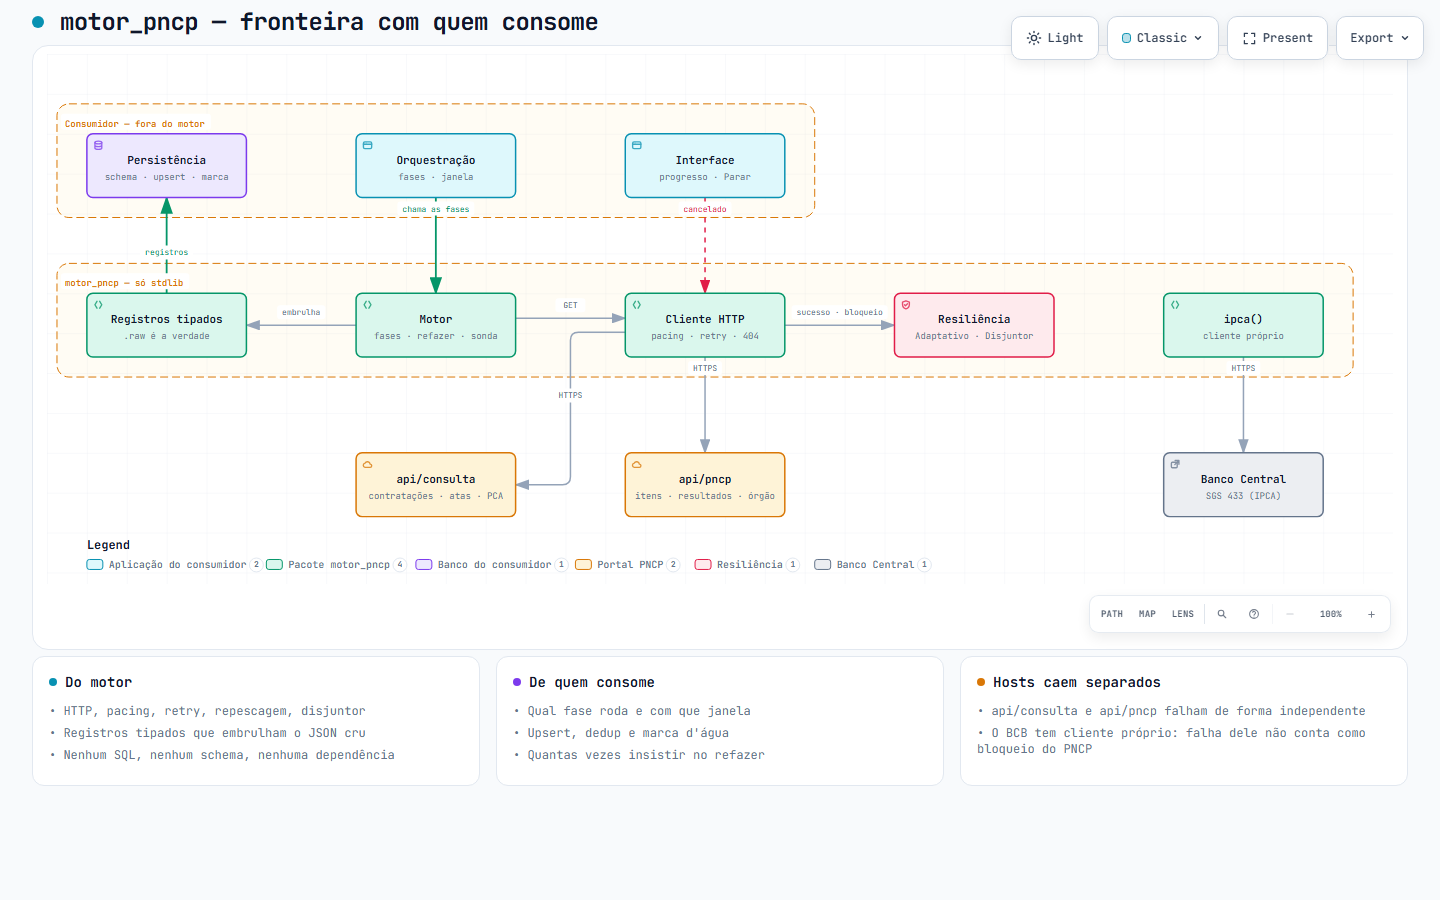
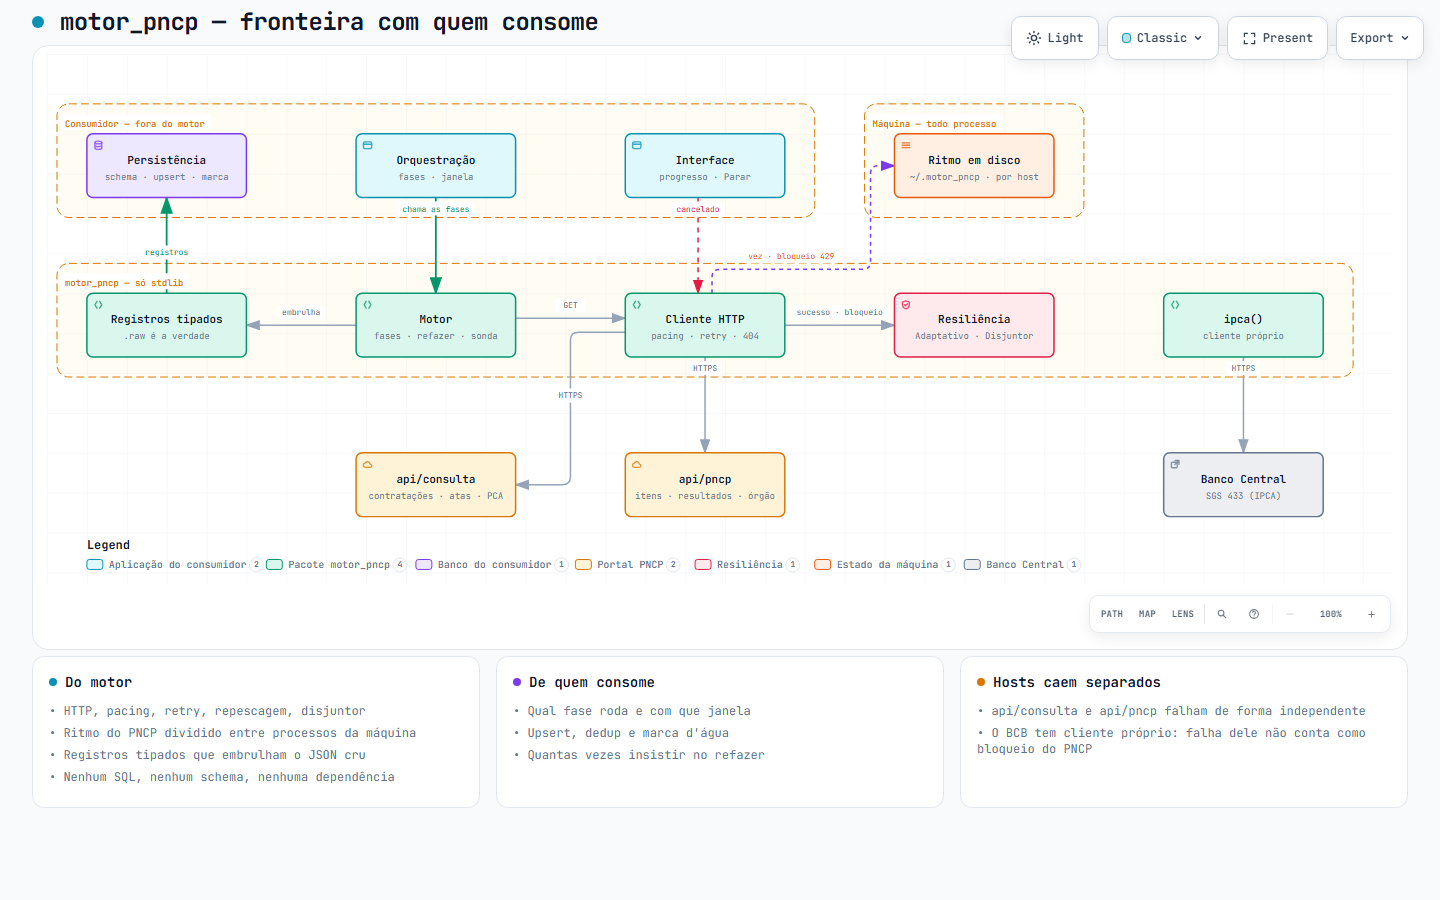
docs: ritmo em disco no diagrama de fronteira; arquivos de ritmo não são contrato
RELEASING declara nome, conteúdo e frequência de escrita dos arquivos em
~/.motor_pncp/ como detalhe interno (contrato: Config.pasta_ritmo e
MOTOR_PNCP_RITMO). Diagrama de fronteira mostra o ritmo compartilhado
entre processos da máquina.

diff --git a/docs/diagramas/fronteira.html b/docs/diagramas/fronteira.html
@@ -5160,16 +5160,19 @@ OTHER DEALINGS IN THE FONT SOFTWARE.
 
         <rect data-graph-role="structural-frame" data-composition-frame-kind="region" data-composition-frame-id="1" data-composition-frame-label="motor_pncp — só stdlib" x="10" y="210" width="1300" height="114" rx="12" class="c-region" stroke-width="1"/>
 
+        <rect data-graph-role="structural-frame" data-composition-frame-kind="region" data-composition-frame-id="2" data-composition-frame-label="Máquina — todo processo" x="820" y="50" width="220" height="114" rx="12" class="c-region" stroke-width="1"/>
+
         <!-- Connection paths (before components for correct z-order) -->
         <path data-edge-from="orquestracao" data-edge-to="motor" data-edge-label="chama as fases" data-edge-key="0" data-edge-id="c-chama" data-composition-points="390,144;390,240" d="M 390 144 L 390 240" class="a-emphasis" stroke-width="1.8" marker-end="url(#arrowhead-emphasis)"/>
         <path data-edge-from="motor" data-edge-to="tipos" data-edge-label="embrulha" data-edge-key="1" data-edge-id="c-tipa" data-composition-points="310,272;200,272" d="M 310 272 L 200 272" class="a-default" stroke-width="1.5" marker-end="url(#arrowhead)"/>
         <path data-edge-from="tipos" data-edge-to="persistencia" data-edge-label="registros" data-edge-key="2" data-edge-id="c-entrega" data-composition-points="120,240;120,144" d="M 120 240 L 120 144" class="a-emphasis" stroke-width="1.8" marker-end="url(#arrowhead-emphasis)"/>
         <path data-edge-from="motor" data-edge-to="cliente" data-edge-label="GET" data-edge-key="3" data-edge-id="c-http" data-composition-points="470,265;580,265" d="M 470 265 L 580 265" class="a-default" stroke-width="1.5" marker-end="url(#arrowhead)"/>
         <path data-edge-from="cliente" data-edge-to="resiliencia" data-edge-label="sucesso · bloqueio" data-edge-key="4" data-edge-id="c-sinais" data-composition-points="740,272;850,272" d="M 740 272 L 850 272" class="a-default" stroke-width="1.5" marker-end="url(#arrowhead)"/>
-        <path data-edge-from="interface" data-edge-to="cliente" data-edge-label="cancelado" data-edge-key="5" data-edge-id="c-controle" data-composition-points="660,144;660,240" d="M 660 144 L 660 240" class="a-security" stroke-width="1.5" marker-end="url(#arrowhead-security)"/>
+        <path data-edge-from="interface" data-edge-to="cliente" data-edge-label="cancelado" data-edge-key="5" data-edge-id="c-controle" data-composition-points="653,144;653,240" d="M 653 144 L 653 240" class="a-security" stroke-width="1.5" marker-end="url(#arrowhead-security)"/>
         <path data-edge-from="cliente" data-edge-to="consulta" data-edge-label="HTTPS" data-edge-key="6" data-edge-id="c-consulta" data-composition-points="580,279;525,279;525,432;470,432" d="M 580 279 L 533 279 Q 525 279 525 287 L 525 424 Q 525 432 517 432 L 470 432" class="a-default" stroke-width="1.5" marker-end="url(#arrowhead)"/>
         <path data-edge-from="cliente" data-edge-to="pncp" data-edge-label="HTTPS" data-edge-key="7" data-edge-id="c-pncp" data-composition-points="660,304;660,400" d="M 660 304 L 660 400" class="a-default" stroke-width="1.5" marker-end="url(#arrowhead)"/>
         <path data-edge-from="ipca" data-edge-to="bcb" data-edge-label="HTTPS" data-edge-key="8" data-edge-id="c-bcb" data-composition-points="1200,304;1200,400" d="M 1200 304 L 1200 400" class="a-default" stroke-width="1.5" marker-end="url(#arrowhead)"/>
+        <path data-edge-from="cliente" data-edge-to="ritmo" data-edge-label="vez · bloqueio 429" data-edge-key="9" data-edge-id="c-ritmo" data-composition-points="667,240;667,216;826,216;826,112;850,112" d="M 667 240 L 667 224 Q 667 216 675 216 L 818 216 Q 826 216 826 208 L 826 120 Q 826 112 834 112 L 850 112" class="a-dashed" stroke-width="1.5" marker-end="url(#arrowhead-dashed)"/>
 
         <!-- Components -->
         <g id="node-persistencia" data-node-id="persistencia" data-node-label="Persistência" tabindex="0" role="button" aria-label="Focus Persistência, schema · upsert · marca, Consumidor — fora do motor" aria-pressed="false" data-node-kind="database" data-node-sublabel="schema · upsert · marca" data-node-context="Consumidor — fora do motor">
@@ -5302,6 +5305,20 @@ OTHER DEALINGS IN THE FONT SOFTWARE.
         <text data-detail="context" x="1200" y="446" class="t-muted" font-size="9" text-anchor="middle">SGS 433 (IPCA)</text>
         </g>
 
+        <g id="node-ritmo" data-node-id="ritmo" data-node-label="Ritmo em disco" tabindex="0" role="button" aria-label="Focus Ritmo em disco, ~/.motor_pncp · por host, Máquina — todo processo" aria-pressed="false" data-node-kind="messagebus" data-node-sublabel="~/.motor_pncp · por host" data-node-context="Máquina — todo processo">
+          <title>Ritmo em disco · ~/.motor_pncp · por host · Máquina — todo processo</title>
+          <rect x="850" y="80" width="160" height="64" rx="6" class="c-mask"/>
+          <rect x="850" y="80" width="160" height="64" rx="6" class="c-messagebus" stroke-width="1.5"/>
+          <g aria-hidden="true" data-semantic-sigil="messagebus" class="semantic-sigil s-messagebus" transform="translate(856 86) scale(0.6875)">
+            <path d="M2.5 4.5h11M2.5 8h11M2.5 11.5h11"/>
+            <circle cx="5" cy="4.5" r="1" class="sigil-fill"/>
+            <circle cx="10.5" cy="8" r="1" class="sigil-fill"/>
+            <circle cx="7" cy="11.5" r="1" class="sigil-fill"/>
+          </g>
+          <text data-node-label="" data-detail-anchor="" x="930" y="110" class="t-primary" font-size="11" font-weight="600" text-anchor="middle">Ritmo em disco</text>
+        <text data-detail="context" x="930" y="126" class="t-muted" font-size="9" text-anchor="middle">~/.motor_pncp · por host</text>
+        </g>
+
         <!-- Connection labels -->
         <g data-detail="context" data-edge-from="orquestracao" data-edge-to="motor" data-edge-label="chama as fases" data-edge-key="0" data-edge-id="c-chama">
           <rect x="351.4" y="148" width="77.2" height="14" rx="3" class="c-mask"/>
@@ -5324,8 +5341,8 @@ OTHER DEALINGS IN THE FONT SOFTWARE.
           <text x="795" y="262" class="t-muted" font-size="8" text-anchor="middle">sucesso · bloqueio</text>
         </g>
         <g data-detail="context" data-edge-from="interface" data-edge-to="cliente" data-edge-label="cancelado" data-edge-key="5" data-edge-id="c-controle">
-          <rect x="633.4" y="148" width="53.199999999999996" height="14" rx="3" class="c-mask"/>
-          <text x="660" y="158" class="t-security" font-size="8" text-anchor="middle">cancelado</text>
+          <rect x="626.4" y="148" width="53.199999999999996" height="14" rx="3" class="c-mask"/>
+          <text x="653" y="158" class="t-security" font-size="8" text-anchor="middle">cancelado</text>
         </g>
         <g data-detail="context" data-edge-from="cliente" data-edge-to="consulta" data-edge-label="HTTPS" data-edge-key="6" data-edge-id="c-consulta">
           <rect x="508" y="335.5" width="34" height="14" rx="3" class="c-mask"/>
@@ -5339,6 +5356,10 @@ OTHER DEALINGS IN THE FONT SOFTWARE.
           <rect x="1183" y="308" width="34" height="14" rx="3" class="c-mask"/>
           <text x="1200" y="318" class="t-muted" font-size="8" text-anchor="middle">HTTPS</text>
         </g>
+        <g data-detail="context" data-edge-from="cliente" data-edge-to="ritmo" data-edge-label="vez · bloqueio 429" data-edge-key="9" data-edge-id="c-ritmo">
+          <rect x="698.3" y="196" width="96.39999999999999" height="14" rx="3" class="c-mask"/>
+          <text x="746.5" y="206" class="t-messagebus" font-size="8" text-anchor="middle">vez · bloqueio 429</text>
+        </g>
 
         <!-- Boundary labels (foreground masks keep routes out of titles) -->
         <g data-graph-role="structural-frame-label" data-composition-frame-id="0" data-composition-frame-kind="region" data-composition-frame-label="Consumidor — fora do motor">
@@ -5349,6 +5370,11 @@ OTHER DEALINGS IN THE FONT SOFTWARE.
         <g data-graph-role="structural-frame-label" data-composition-frame-id="1" data-composition-frame-kind="region" data-composition-frame-label="motor_pncp — só stdlib">
           <rect data-graph-role="structural-frame-label-mask" x="14" y="220" width="128.8" height="16" rx="3" class="c-mask"/>
           <text data-boundary-label="" x="18" y="233" class="t-cloud" font-size="9" font-weight="600">motor_pncp — só stdlib</text>
+        </g>
+
+        <g data-graph-role="structural-frame-label" data-composition-frame-id="2" data-composition-frame-kind="region" data-composition-frame-label="Máquina — todo processo">
+          <rect data-graph-role="structural-frame-label-mask" x="824" y="60" width="134.2" height="16" rx="3" class="c-mask"/>
+          <text data-boundary-label="" x="828" y="73" class="t-cloud" font-size="9" font-weight="600">Máquina — todo processo</text>
         </g>
 
         <!-- Legend -->
@@ -5374,9 +5400,13 @@ OTHER DEALINGS IN THE FONT SOFTWARE.
             <rect x="650" y="507" width="16" height="10" rx="2.5" class="c-security" stroke-width="1"/>
             <text x="672" y="516" class="t-muted" font-size="10" font-weight="500">Resiliência</text>
           </g>
-          <g data-legend-semantic-kind="external" data-legend-kind="external" data-legend-label="Banco Central" data-legend-x="770" data-legend-baseline="516" data-legend-width="108">
-            <rect x="770" y="507" width="16" height="10" rx="2.5" class="c-external" stroke-width="1"/>
-            <text x="792" y="516" class="t-muted" font-size="10" font-weight="500">Banco Central</text>
+          <g data-legend-semantic-kind="messagebus" data-legend-kind="messagebus" data-legend-label="Estado da máquina" data-legend-x="770" data-legend-baseline="516" data-legend-width="128">
+            <rect x="770" y="507" width="16" height="10" rx="2.5" class="c-messagebus" stroke-width="1"/>
+            <text x="792" y="516" class="t-muted" font-size="10" font-weight="500">Estado da máquina</text>
+          </g>
+          <g data-legend-semantic-kind="external" data-legend-kind="external" data-legend-label="Banco Central" data-legend-x="920" data-legend-baseline="516" data-legend-width="108">
+            <rect x="920" y="507" width="16" height="10" rx="2.5" class="c-external" stroke-width="1"/>
+            <text x="942" y="516" class="t-muted" font-size="10" font-weight="500">Banco Central</text>
           </g>
         </g>
       </svg>
@@ -5572,6 +5602,7 @@ OTHER DEALINGS IN THE FONT SOFTWARE.
         </div>
         <ul>
           <li>&bull; HTTP, pacing, retry, repescagem, disjuntor</li>
+          <li>&bull; Ritmo do PNCP dividido entre processos da máquina</li>
           <li>&bull; Registros tipados que embrulham o JSON cru</li>
           <li>&bull; Nenhum SQL, nenhum schema, nenhuma dependência</li>
         </ul>

diff --git a/RELEASING.md b/RELEASING.md
@@ -15,9 +15,16 @@ Só isto é coberto pelo número de versão:
 
 **Não é contrato** (mesmo que alguém dependa — Hyrum's Law): módulos com
 `_` (`_http`, `_resiliencia`), texto de mensagens de erro e de progresso,
-ordem interna de requisições, nomes de chaves usadas pelo `Dedup`, e os
+ordem interna de requisições, nomes de chaves usadas pelo `Dedup`, o
+nome, o conteúdo e a frequência de escrita dos arquivos de ritmo em
+`~/.motor_pncp/` (o que é contrato é `Config.pasta_ritmo` e a variável
+`MOTOR_PNCP_RITMO` dizerem onde eles ficam), e os
 **valores** dos limiares de `Config` (podem ser recalibrados em patch;
 o que é contrato é o campo existir com o mesmo significado).
+
+Quem lê esses arquivos de fora do motor depende de detalhe interno.
+Quando o motor mudá-los, avisa os dependentes conhecidos, mas sem
+compromisso de versão.
 
 ## 2. Como o número muda (SemVer estrito)
 
